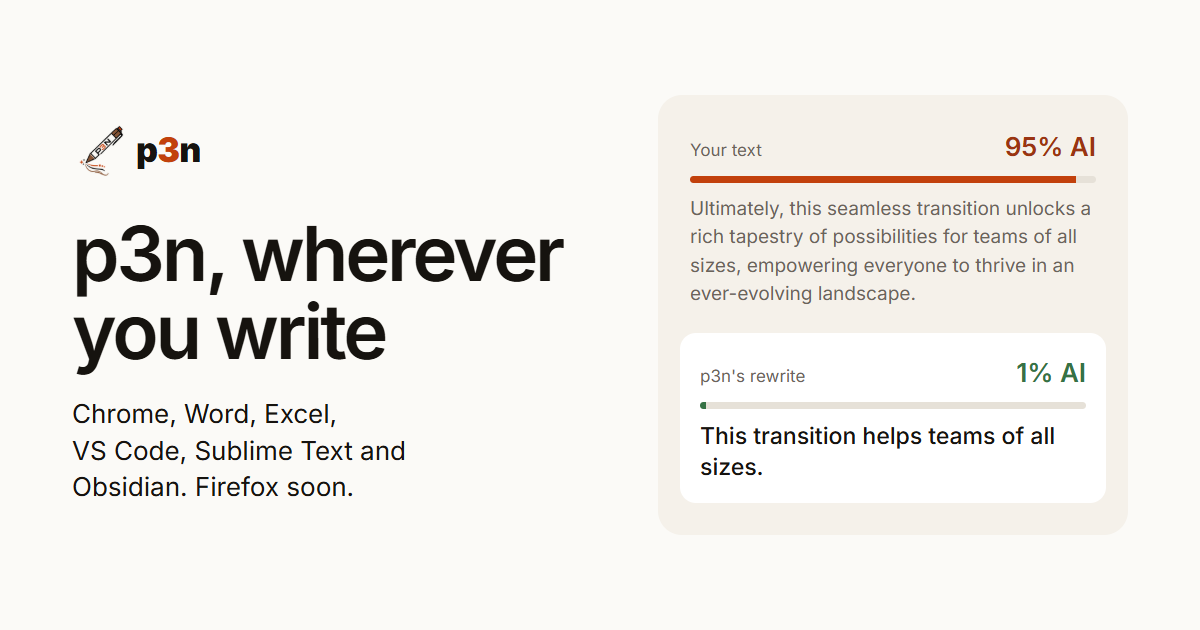
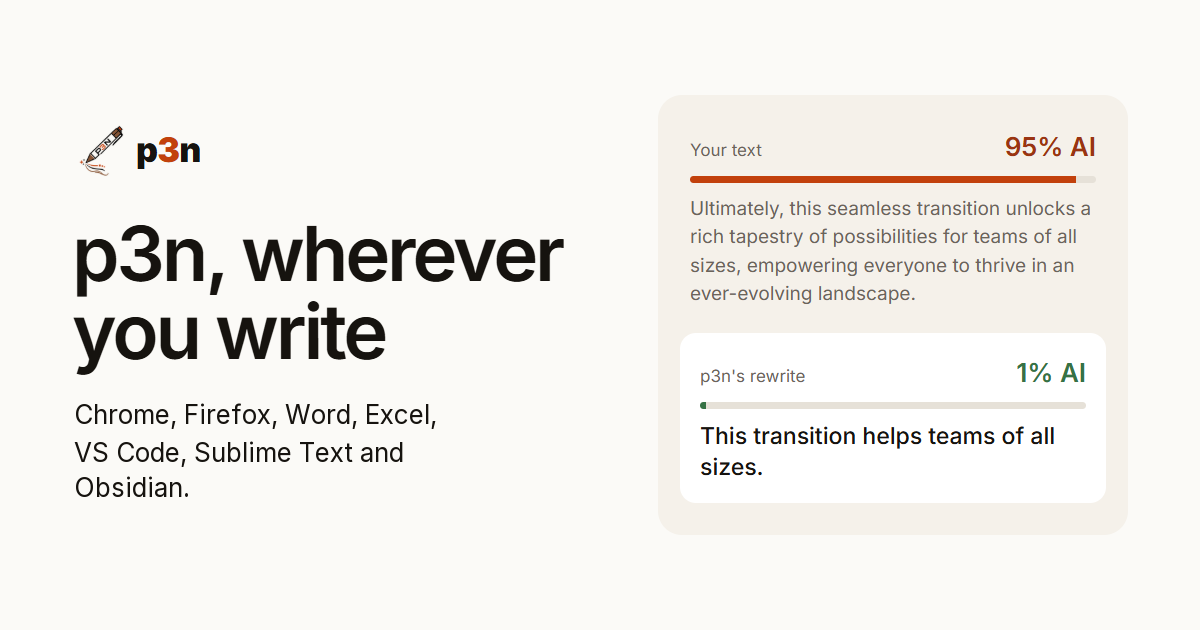
p3n page: Firefox Add-ons is live (Add to Firefox, share image and descriptions)

Changed region(s): [[0.0617, 0.6333, 0.37, 0.8143]]

diff --git a/p3n/index.html b/p3n/index.html
@@ -4,17 +4,17 @@
   <meta charset="utf-8">
   <meta name="viewport" content="width=device-width, initial-scale=1">
   <title>Install p3n: Chrome, Word, Excel, VS Code and more</title>
-  <meta name="description" content="Find the AI in any text, then rewrite it, in the app you're writing in. p3n for Chrome, Edge, Brave, Word, Excel, VS Code, Sublime Text and Obsidian; Firefox coming soon. Free to try, no account needed.">
+  <meta name="description" content="Find the AI in any text, then rewrite it, in the app you're writing in. p3n for Chrome, Edge, Brave, Firefox, Word, Excel, VS Code, Sublime Text and Obsidian. Free to try, no account needed.">
   <link rel="canonical" href="https://nikita-andreiev.com/p3n/">
   <meta property="og:type" content="website">
   <meta property="og:site_name" content="p3n">
   <meta property="og:url" content="https://nikita-andreiev.com/p3n/">
   <meta property="og:title" content="p3n, wherever you write">
-  <meta property="og:description" content="Find the AI in any text, then rewrite it, in Chrome, Word, Excel, VS Code, Sublime Text and Obsidian. Firefox coming soon.">
+  <meta property="og:description" content="Find the AI in any text, then rewrite it, in Chrome, Firefox, Word, Excel, VS Code, Sublime Text and Obsidian.">
   <meta property="og:image" content="https://nikita-andreiev.com/p3n/og.png">
   <meta property="og:image:width" content="1200">
   <meta property="og:image:height" content="630">
-  <meta property="og:image:alt" content="p3n, wherever you write: Chrome, Word, Excel, VS Code, Sublime Text and Obsidian, with Firefox coming soon.">
+  <meta property="og:image:alt" content="p3n, wherever you write: Chrome, Firefox, Word, Excel, VS Code, Sublime Text and Obsidian.">
   <meta name="twitter:card" content="summary_large_image">
   <meta name="color-scheme" content="light dark">
   <meta name="theme-color" content="#fbfaf7" media="(prefers-color-scheme: light)">
@@ -358,9 +358,9 @@
     </div>
   </footer>
   <script>
-    // Firefox Add-ons is still reviewing p3n. Once the listing is live, set its URL here: the Firefox row gets an
-    // Add to Firefox button, its card at the top says so, and visitors on Firefox get it as the page's main button.
-    var FIREFOX_URL = ''; // 'https://addons.mozilla.org/firefox/addon/p3n/'
+    // Firefox Add-ons listing (live since 2026-10-23): the Firefox row gets an Add to Firefox button, its card at the
+    // top says so, and visitors on Firefox get it as the page's main button. Empty it to go back to "in review".
+    var FIREFOX_URL = 'https://addons.mozilla.org/firefox/addon/p3n/';
 
     (function () {
       var onFirefox = /\bFirefox\//.test(navigator.userAgent);
